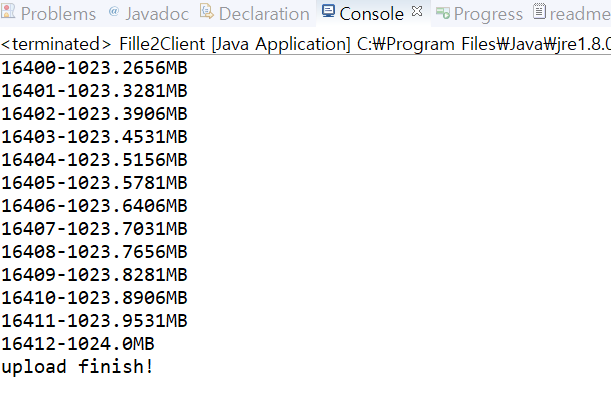
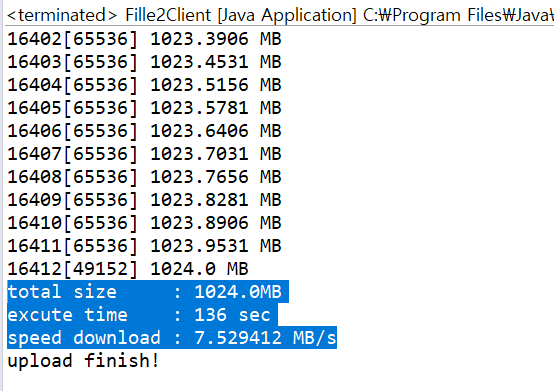
update client

Changed region(s): [[0.0, 0.0, 1.0, 1.0]]

diff --git a/nettySample/src/com/psc/netty/file2/client/File2ClinetHandler.java b/nettySample/src/com/psc/netty/file2/client/File2ClinetHandler.java
@@ -21,6 +21,7 @@ public class File2ClinetHandler extends ChannelInboundHandlerAdapter {
 	
 	private long start;
 	private long end;
+
 	
 	@Override
 	public void channelActive(ChannelHandlerContext ctx) throws Exception {
@@ -94,9 +95,13 @@ public class File2ClinetHandler extends ChannelInboundHandlerAdapter {
 	
 	@Override
     public void channelUnregistered(ChannelHandlerContext ctx) throws Exception {
-		
 		end = System.currentTimeMillis();
-		System.out.println( "실행 시간 : " + ( end - start )/1000.0 );
+		
+		long runtime = ( end - start )/1000;
+		float totalSize = (totSize/(1024*1024));
+		System.out.println("total size     : " + totalSize + "MB");
+		System.out.println("excute time    : " + runtime + " sec");
+		System.out.println("speed download : " + totalSize/runtime +" MB/s");
         System.out.println("upload finish!");
     }
 }

diff --git a/nettySample/src/com/psc/netty/file2/client/Fille2Client.java b/nettySample/src/com/psc/netty/file2/client/Fille2Client.java
@@ -26,7 +26,7 @@ public class Fille2Client {
 				@Override
 				protected void initChannel(SocketChannel ch) throws Exception {
 					ChannelPipeline p = ch.pipeline();
-					p.addLast(new ByteArrayDecoder2());
+					p.addLast(new ByteArrayDecoder());
 					p.addLast(new ByteArrayEncoder());
 					p.addLast(new File2ClinetHandler());
 				}
